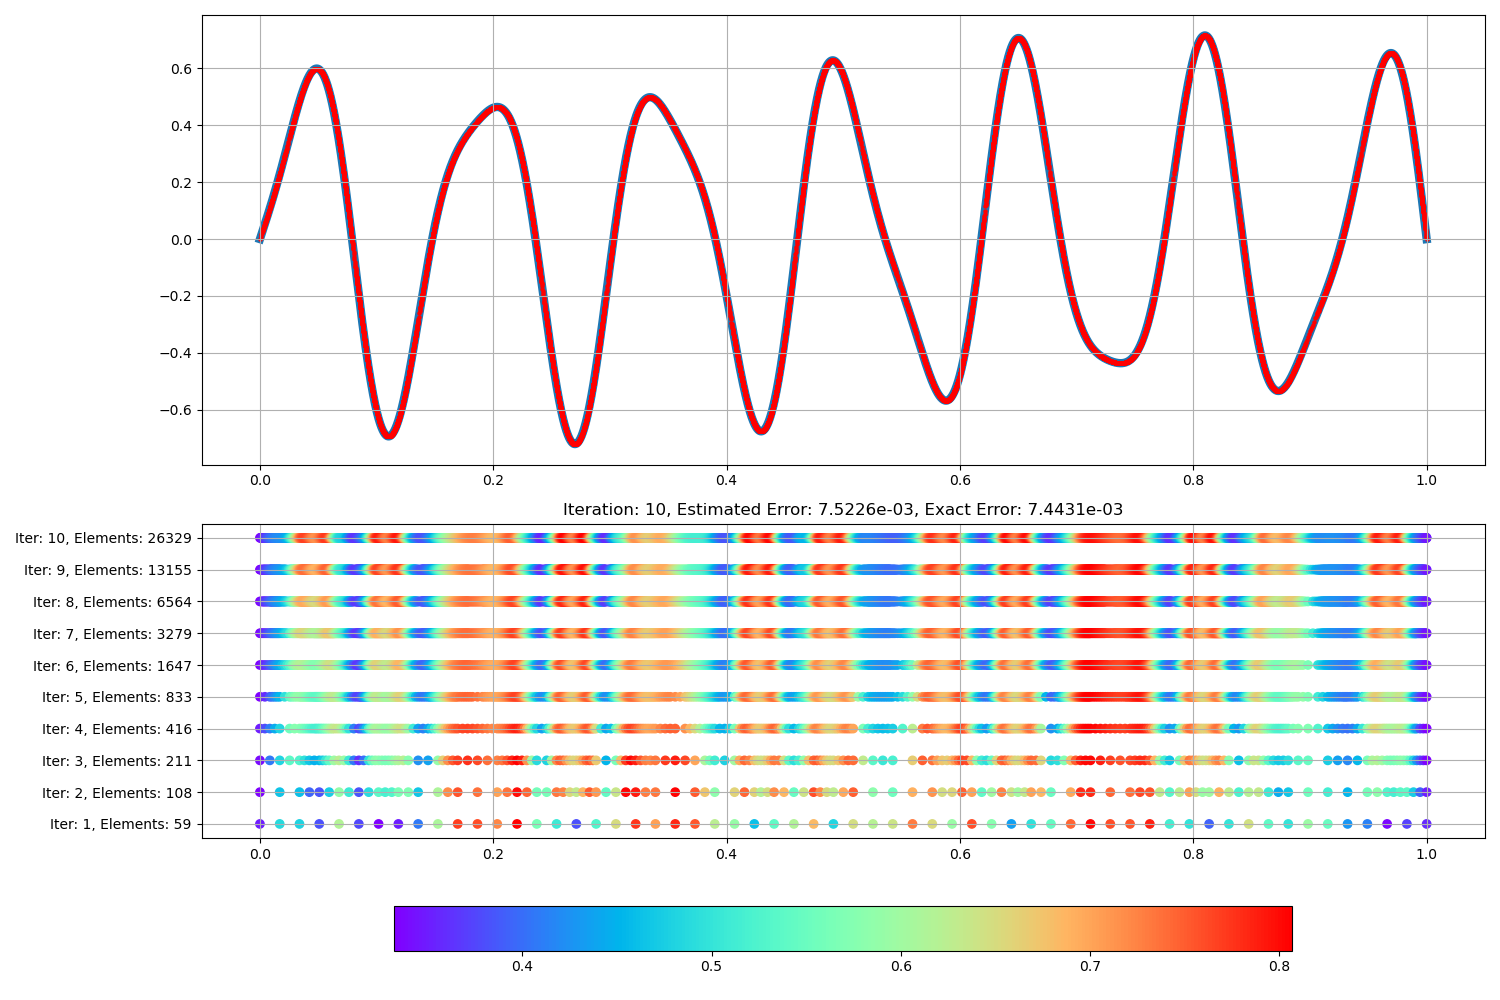
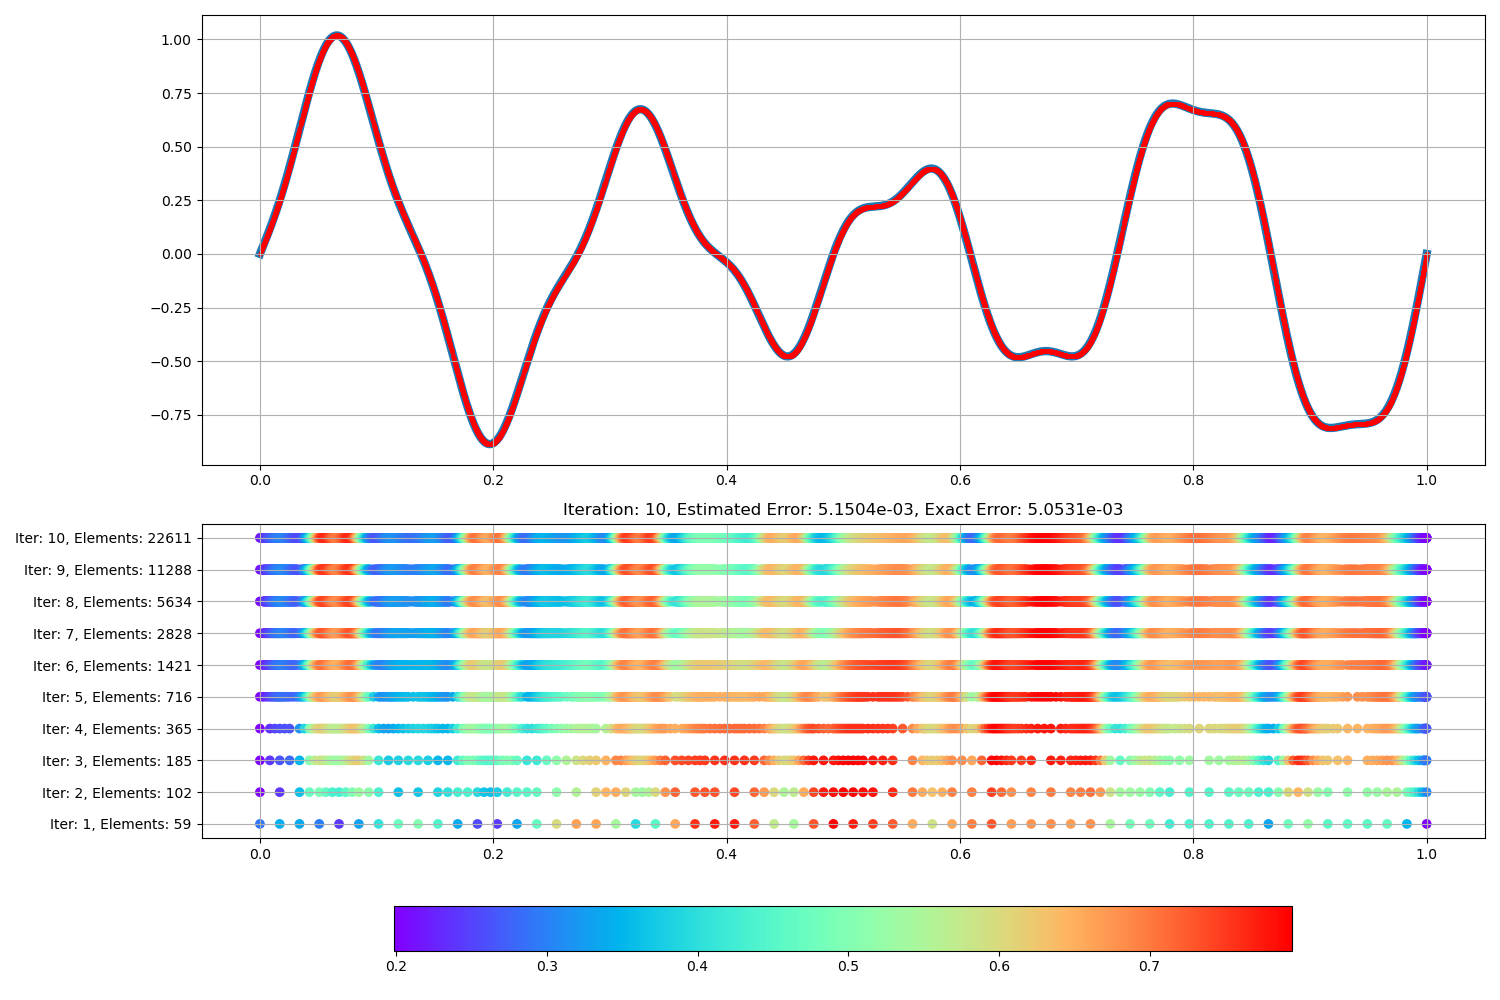
added boundary extension

diff --git a/src/adaptive_mesh_refinement.py b/src/adaptive_mesh_refinement.py
@@ -40,8 +40,6 @@ def get_error_estimate(features, nn_fine, nn_coarse):
     local_errors = np.zeros(len(features))
     local_errors[fine_separation] = fine_error
     local_errors[~fine_separation] = coarse_error
-    local_errors = np.insert(local_errors, 0, local_errors[0])
-    local_errors = np.append(local_errors, local_errors[-1])
 
     global_error = np.linalg.norm(np.array(local_errors))
     return local_errors, global_error
@@ -59,6 +57,24 @@ def relative_change(grad_new, grad_old):
 def generate_data(new_sol, new_grid, old_sol, old_grid):
     # Step size: x_i+1 - x_i
     old_step = old_grid[1:] - old_grid[:-1]
+    new_step = new_grid[1:] - new_grid[:-1]
+
+    # Extend boundary on the old mesh
+    virtual_point_old_left = (old_sol[0] - (old_sol[1] - old_sol[0]))
+    old_sol = np.insert(old_sol, 0, virtual_point_old_left)
+    old_grid = np.insert(old_grid, 0, old_grid[0] - old_step[0])
+    virtual_point_old_right = (old_sol[-1] + old_sol[-1] - old_sol[-2])
+    old_sol = np.append(old_sol, virtual_point_old_right)
+    old_grid = np.append(old_grid, old_grid[-1] + old_step[-1])
+    old_step = old_grid[1:] - old_grid[:-1]
+
+    # Extend boundary on the new mesh
+    virtual_point_new_left = (new_sol[0] - (new_sol[1] - new_sol[0]))
+    new_sol = np.insert(new_sol, 0, virtual_point_new_left)
+    new_grid = np.insert(new_grid, 0, new_grid[0] - new_step[0])
+    virtual_point_new_right = (new_sol[-1] - (new_sol[-1] - new_sol[-2]))
+    new_sol = np.append(new_sol, virtual_point_new_right)
+    new_grid = np.append(new_grid, new_grid[-1] + new_step[-1])
     new_step = new_grid[1:] - new_grid[:-1]
 
     hs = {"i-1": new_step[0:-2], "i": new_step[1:-1], "i+1": new_step[2:]}
@@ -253,7 +269,7 @@ def adaptive_mesh_refinement(tolerance, max_iter):
     error = 1 << 20
     N_elements = []
 
-    source_func_temp = f_str(1000, 40, 2)
+    source_func_temp = f_str(1000, 30, 3)
     source_func_str = source_func_temp[0]
 
     solution_coarse = solver(mesh_coarse, bc, source_func_str)
